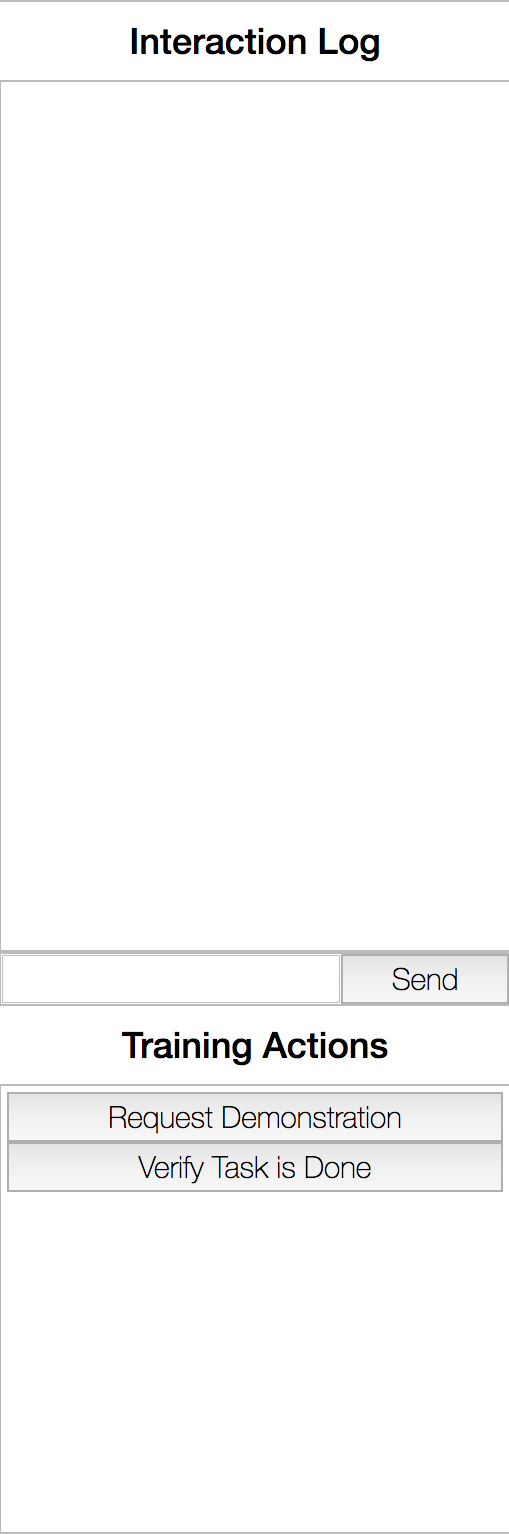
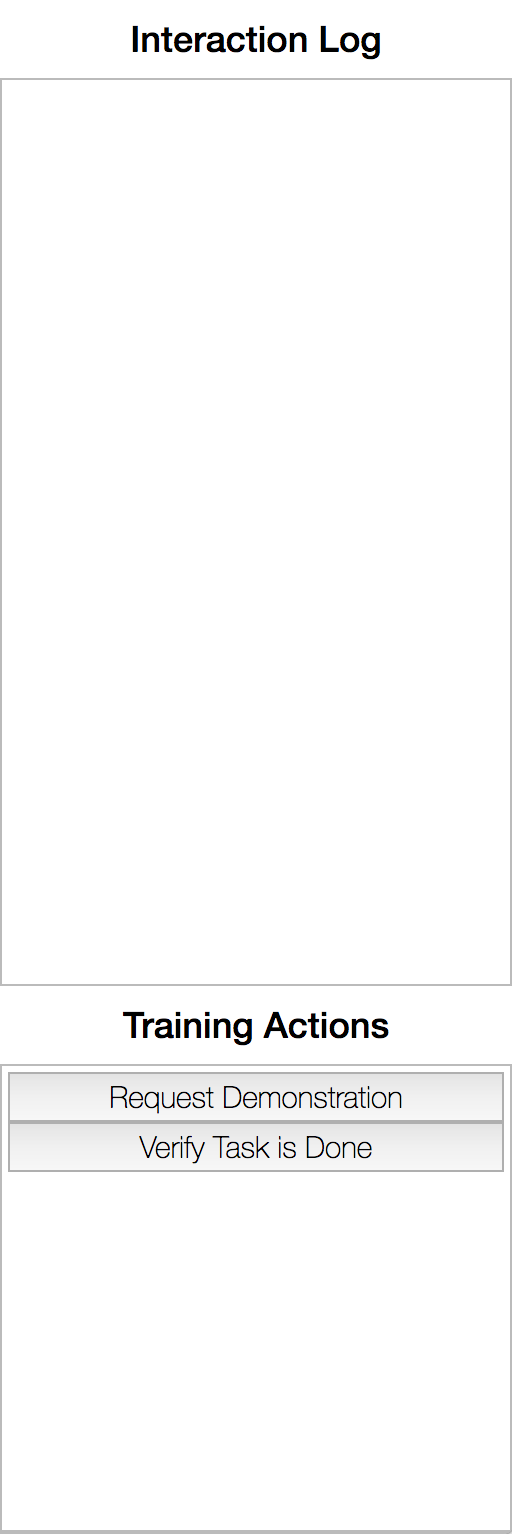
updated training interface images and pages for non-apprentice patterns.

Changed region(s): [[0.0, 0.0306, 1.0, 1.0], [0.2358, 0.0, 0.7662, 0.0613], [0.0, 0.9804, 0.0295, 1.0]]

diff --git a/templates/instructions/student-training-interface-demonstrate.html b/templates/instructions/student-training-interface-demonstrate.html
@@ -18,7 +18,7 @@
         <p style="width: 100%;">
             <img style="display: block; margin-left: auto; margin-right: auto;
             width: 25%;"
-            src="/static/images/student-training-interface-apprentice.png"
+            src="/static/images/student-training-interface-demonstrate.png"
             alt="training interface">
         </p>
 

diff --git a/templates/instructions/student-training-interface-reward.html b/templates/instructions/student-training-interface-reward.html
@@ -18,7 +18,7 @@
         <p style="width: 100%;">
             <img style="display: block; margin-left: auto; margin-right: auto;
             width: 25%;"
-            src="/static/images/student-training-interface-apprentice.png"
+            src="/static/images/student-training-interface-reward.png"
             alt="training interface">
         </p>
 
